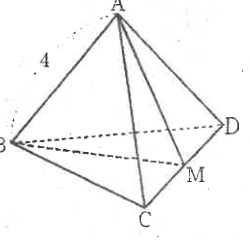
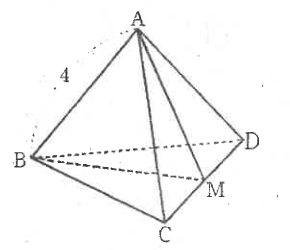
fix(geometry): correct 2022 Maesan final source transcription

diff --git a/archive/_generated/source-only/geometry-20261004/22_매산고_1학기_기말_고2_기하.js b/archive/_generated/source-only/geometry-20261004/22_매산고_1학기_기말_고2_기하.js
@@ -242,7 +242,7 @@ window.questionBank = [
       "단답형",
       "도형"
     ],
-    "content": "한 모서리의 길이가 $4$인 정육면체 $ABCD-EFGH$가 있다. 선분 $AD$의 중점이 $M$이고 평면 $MEG$와 평면 $EFGH$가 이루는 각을 $\\theta$라 할 때, $30\\cos\\theta$의 값을 구하여라. [5점]",
+    "content": "단답형1. 한 모서리의 길이가 $4$인 정육면체 $ABCD-EFGH$가 있다. 선분 $AD$의 중점이 $M$이고 평면 $MEG$와 평면 $EFGH$가 이루는 각을 $\\theta$라 할 때, $30\\cos\\theta$의 값을 구하여라. [5점]",
     "choices": [],
     "image": "assets/images/22_매산고_1학기_기말_고2_기하/q16.png"
   },
@@ -253,7 +253,7 @@ window.questionBank = [
       "단답형",
       "그래프"
     ],
-    "content": "초점이 $F$인 포물선 $y^2=4x$ 위에 서로 다른 두 점 $A,B$가 있다. 두 점 $A,B$의 $x$좌표는 $1$보다 큰 자연수이고 삼각형 $AFB$의 무게중심의 $x$좌표가 $4$일 때, $\\overline{AF}\\times\\overline{BF}$의 최댓값을 구하시오. [5점]",
+    "content": "단답형2. 초점이 $F$인 포물선 $y^2=4x$ 위에 서로 다른 두 점 $A,B$가 있다. 두 점 $A,B$의 $x$좌표는 $1$보다 큰 자연수이고 삼각형 $AFB$의 무게중심의 $x$좌표가 $4$일 때, $\\overline{AF}\\times\\overline{BF}$의 최댓값을 구하시오. [5점]",
     "choices": [],
     "image": "assets/images/22_매산고_1학기_기말_고2_기하/q17.png"
   },
@@ -263,17 +263,19 @@ window.questionBank = [
     "tags": [
       "단답형"
     ],
-    "content": "삼각형 $ABC$에서 $\\overline{AB}=4,\\angle B=90^\\circ,\\angle C=30^\\circ$이다. 점 $P$가 $\\overrightarrow{PB}+\\overrightarrow{PC}=\\vec0$을 만족시킬 때, $|\\overrightarrow{PA}|^2$의 값을 구하면? [5점]",
+    "content": "단답형3. 좌표평면 위의 네 점 $O,A,B,P$는 다음 조건을 만족한다.\n(가) $|\\overrightarrow{OP}|=5, |\\overrightarrow{AB}|=2$\n(나) 두 점 $A,B$는 직선 $l$을 지난다.\n(다) $\\overrightarrow{OP}\\cdot\\overrightarrow{AB}=0,\\overrightarrow{OP}\\cdot\\overrightarrow{OA}=-15$\n삼각형 $ABP$의 넓이를 구하시오. [5점]",
     "choices": []
   },
   {
     "id": 19,
-    "questionType": "단답형",
+    "questionType": "서술형",
     "tags": [
-      "단답형"
+      "서술형",
+      "도형"
     ],
-    "content": "좌표평면 위의 네 점 $O,A,B,P$는 다음 조건을 만족한다.\n(가) $|\\overrightarrow{OP}|=5, |\\overrightarrow{AB}|=2$\n(나) 두 점 $A,B$는 직선 $l$을 지난다.\n(다) $\\overrightarrow{OP}\\cdot\\overrightarrow{AB}=0,\\overrightarrow{OP}\\cdot\\overrightarrow{OA}=-15$\n삼각형 $ABP$의 넓이를 구하시오. [5점]",
-    "choices": []
+    "content": "서술형1. 사면체 $ABCD$에 대하여 $\\overline{AB}=\\overline{AC}=4,\\overline{AD}=8,\\overline{BD}=\\overline{CD},\\angle ABD=90^\\circ$이고 평면 $ABD$와 평면 $ACD$가 이루는 각이 $60^\\circ$이다. 직선 $AD$와 평면 $DBC$가 이루는 각을 $\\theta$라 할 때, $\\cos\\theta$의 값을 구하시오. [10점]",
+    "choices": [],
+    "image": "assets/images/22_매산고_1학기_기말_고2_기하/q19.png"
   },
   {
     "id": 20,
@@ -282,19 +284,8 @@ window.questionBank = [
       "서술형",
       "도형"
     ],
-    "content": "사면체 $ABCD$에 대하여 $\\overline{AB}=\\overline{AC}=4,\\overline{AD}=8,\\overline{BD}=\\overline{CD},\\angle ABD=90^\\circ$이고 평면 $ABD$와 평면 $ACD$가 이루는 각이 $60^\\circ$이다. 직선 $AD$와 평면 $DBC$가 이루는 각을 $\\theta$라 할 때, $\\cos\\theta$의 값을 구하시오. [10점]",
+    "content": "서술형2. 같은 평면 위의 네 점 $A,B,O,P$에 대하여 $AB=8$, 선분 $AB$의 중점을 $O$, 선분 $AB$를 지름으로 하는 반원 위의 한 점을 $P$, 선분 $AO$를 지름으로 하는 반원의 점을 $Q$라 하자. $\\angle ABP=30^\\circ$일 때, $\\overrightarrow{AQ}\\cdot\\overrightarrow{BP}$의 최솟값과 최댓값을 구하시오. [10점]",
     "choices": [],
     "image": "assets/images/22_매산고_1학기_기말_고2_기하/q20.png"
-  },
-  {
-    "id": 21,
-    "questionType": "서술형",
-    "tags": [
-      "서술형",
-      "도형"
-    ],
-    "content": "같은 평면 위의 네 점 $A,B,O,P$에 대하여 $AB=8$, 선분 $AB$의 중점을 $O$, 선분 $AB$를 지름으로 하는 반원 위의 한 점을 $P$, 선분 $AO$를 지름으로 하는 반원의 점을 $Q$라 하자. $\\angle ABP=30^\\circ$일 때, $\\overrightarrow{AQ}\\cdot\\overrightarrow{BP}$의 최솟값과 최댓값을 구하시오. [10점]",
-    "choices": [],
-    "image": "assets/images/22_매산고_1학기_기말_고2_기하/q21.png"
   }
 ];
